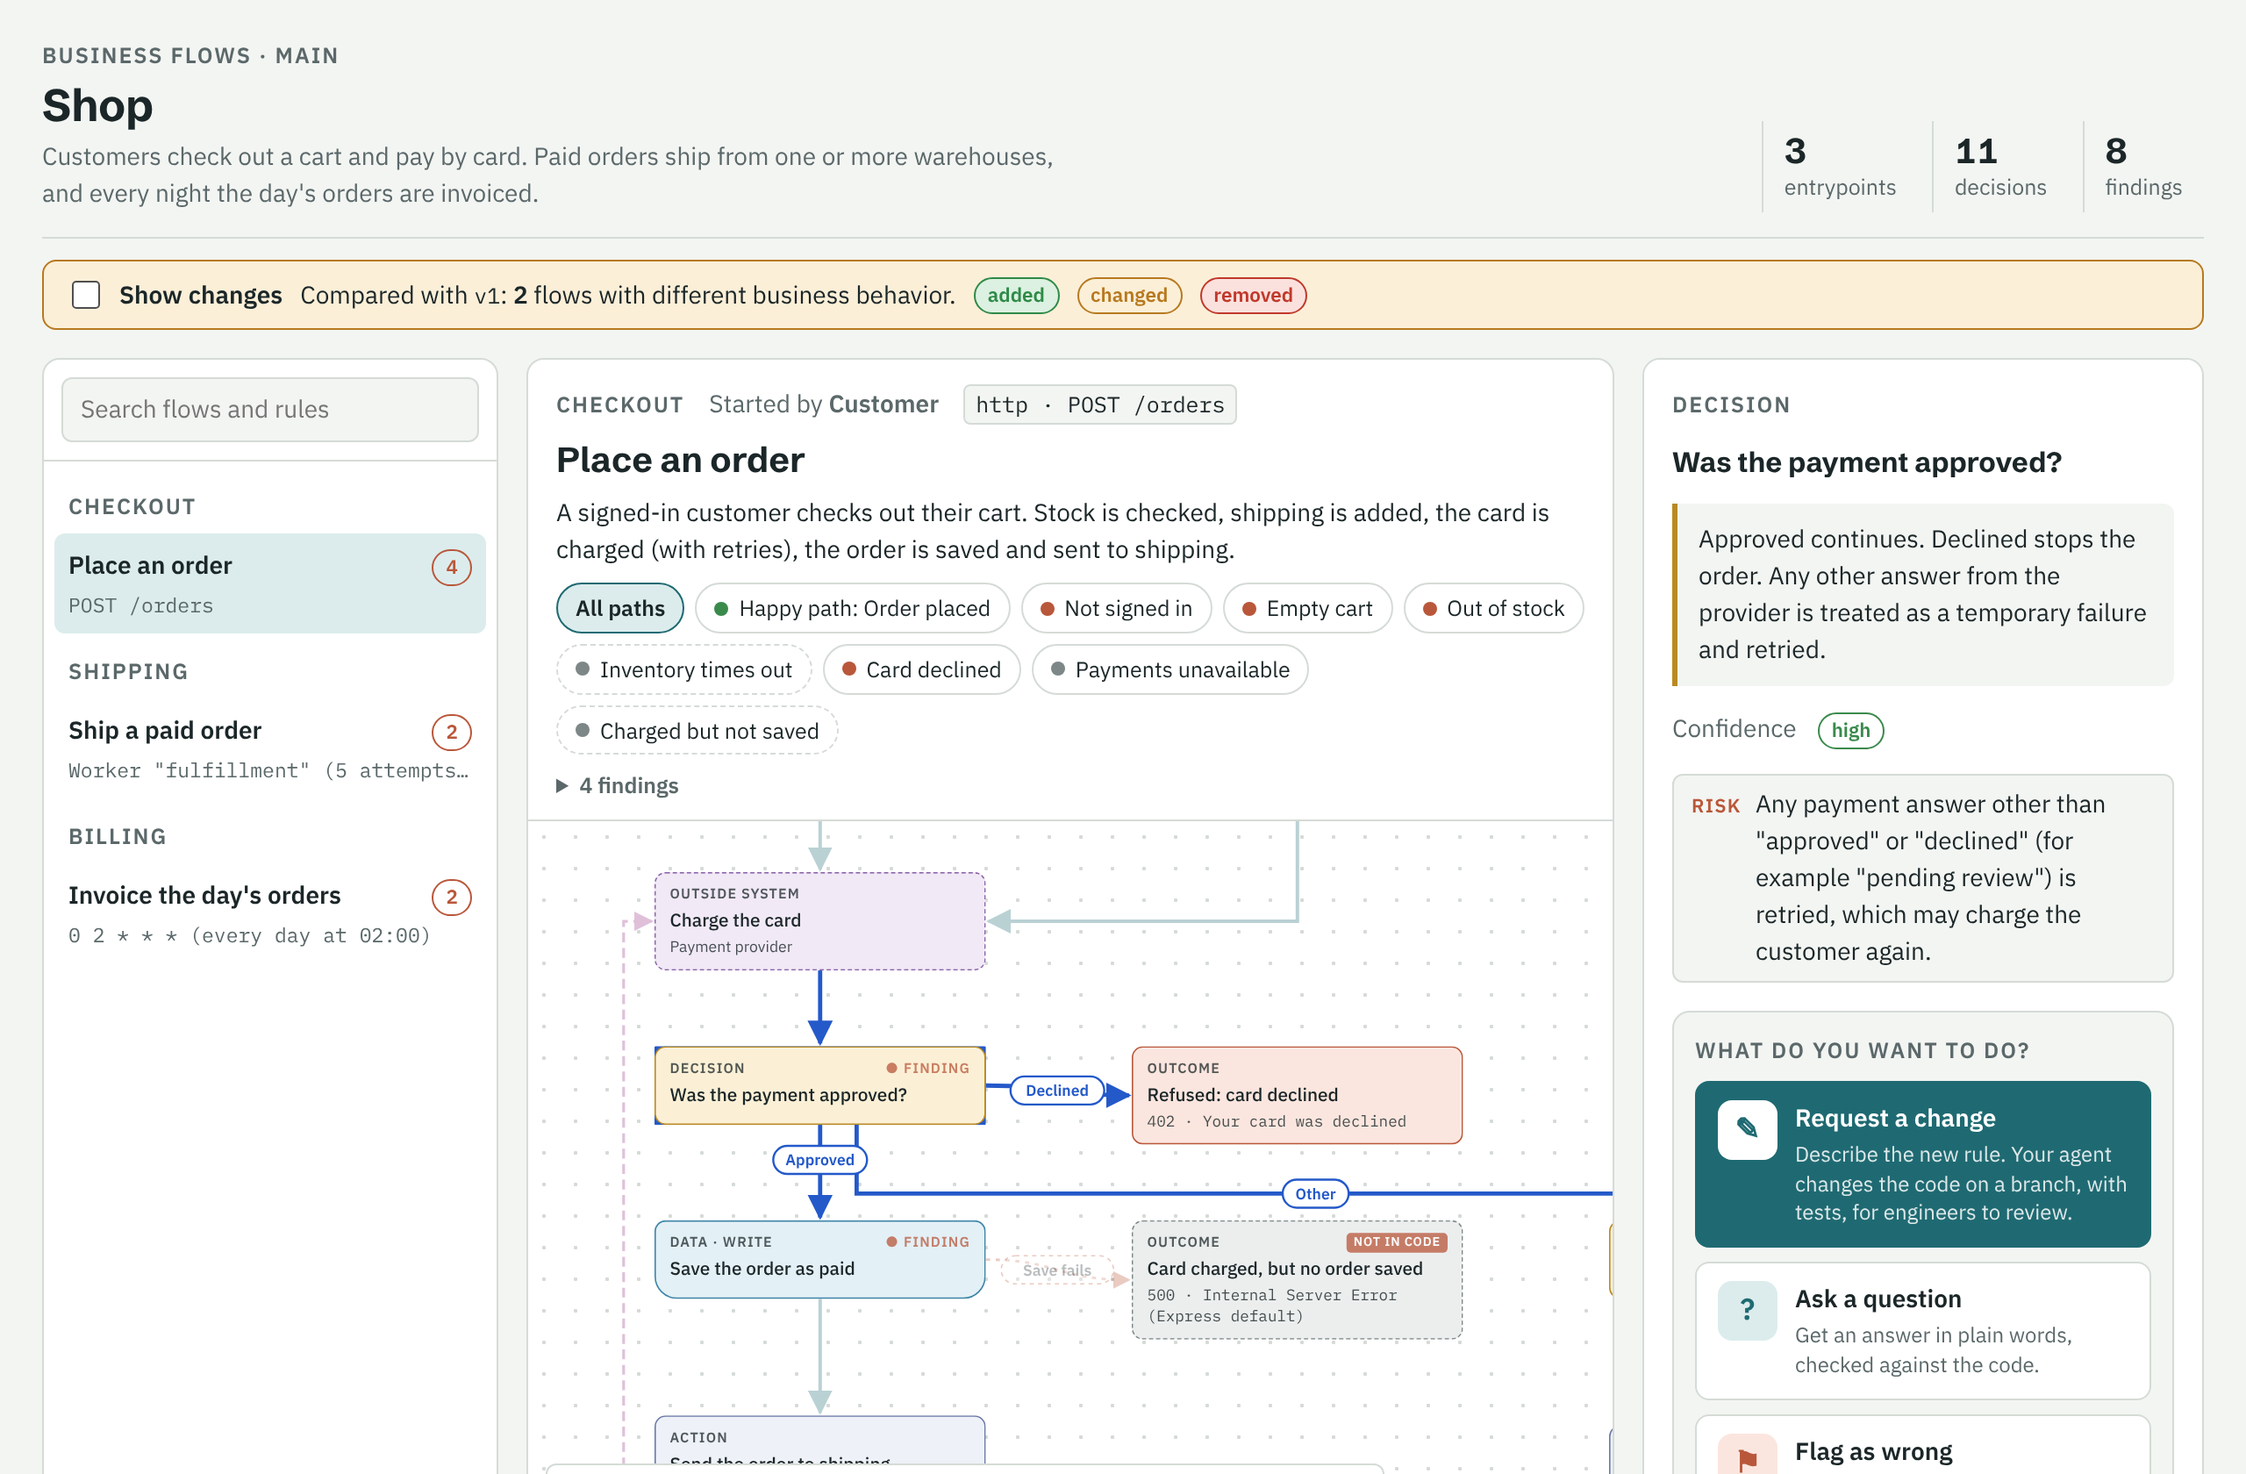
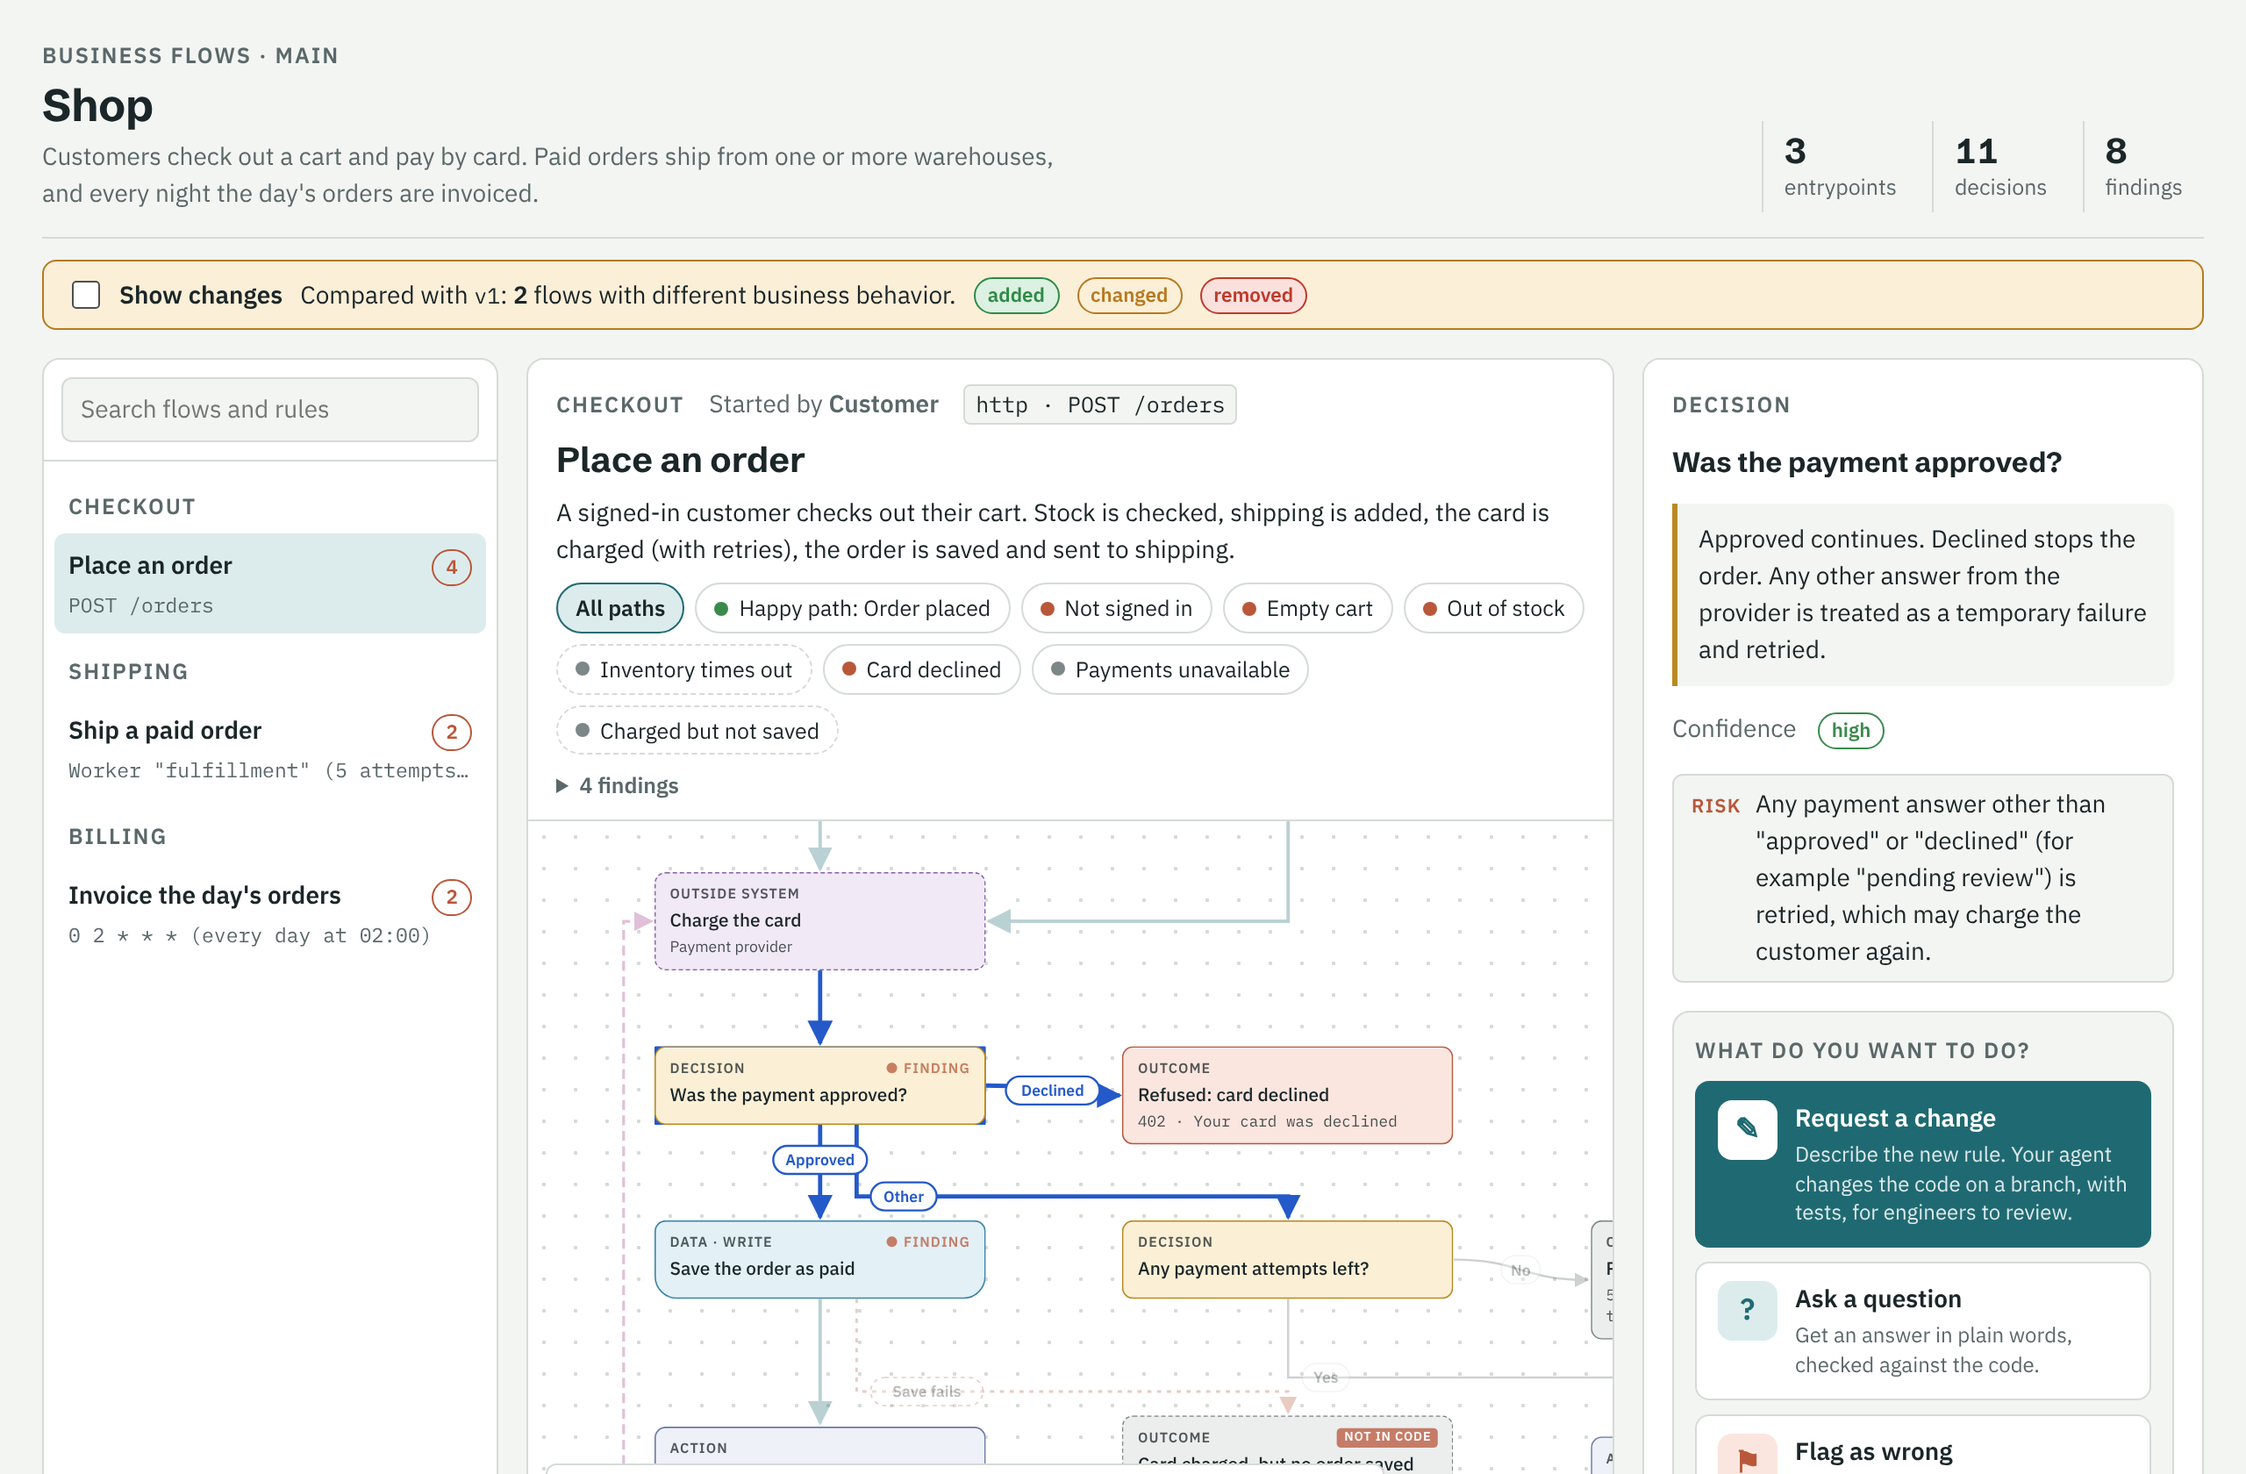
Viewer: never pile steps on top of each other
A decision's exits were always placed in the column to its right, even
when another step already sat there in the same row (two decisions side
by side, the left one with an exit), so the boxes overlapped. Exits now
stay beside their decision only when nothing else is to its right in
that row; otherwise they move down a row into a free column.

Labels of arrows that cross in a gap now sit where each arrow leaves
its step, and parallel tracks are spaced further apart, so crossing
branches ("No" from two decisions) stay readable.

Checked with an overlap scan over every flow of both examples and the
fork/merge, hub and pile-up reproductions: no overlaps.

Claude-Session: https://claude.ai/code/session_01PJiSFCH6Fftah1hFFyPCRG

diff --git a/examples/shop/index.html b/examples/shop/index.html
@@ -490,25 +490,33 @@ const PAYLOAD = {"head":{"version":1,"app":{"name":"Shop","summary":"Customers c
     const layers = [];
     for (const i of ids) (layers[layer.get(i)] ||= []).push(i);
     const col = new Map();
-    layers.forEach((L) => {
-      if (!L) return;
+    for (let k = 0; k < layers.length; k++) {
+      let L = layers[k];
+      if (!L) continue;
       const bary = (i) => { const p = parents.get(i).filter((x) => col.has(x)); return p.length ? p.reduce((s, x) => s + col.get(x), 0) / p.length : 0; };
       L.sort((a, b) => (side.has(a) - side.has(b)) || (happy.has(b) - happy.has(a)) || (bary(a) - bary(b)) || (ids.indexOf(a) - ids.indexOf(b)));
-      // Happy-path node in column 0. A decision's exits stack in the column right of it.
-      // The other steps take the next free columns.
+      // Happy-path step in column 0, the other steps in the next free columns.
       const used = new Set();
       const place = (i) => {
-        if (side.has(i)) { const c = col.get(parents.get(i)[0]) + 1; col.set(i, c); used.add(c); return; }
         let want = happy.has(i) ? 0 : Math.max(1, Math.round(bary(i)));
         while (used.has(want)) want++;
         used.add(want); col.set(i, want);
       };
-      const sideReady = (i) => side.has(i) && col.has(parents.get(i)[0]);
       L.filter((i) => !side.has(i) && happy.has(i)).forEach(place);
-      L.filter(sideReady).forEach(place);
       L.filter((i) => !side.has(i) && !happy.has(i)).forEach(place);
-      L.filter((i) => side.has(i) && !col.has(i)).forEach(place);
-    });
+      // A decision's exits stack in the column right of it, but only when nothing else sits to
+      // its right in this row. Otherwise they move down a row, where they get a free column.
+      const mainCols = L.filter((i) => !side.has(i)).map((i) => col.get(i));
+      const groups = new Map();
+      for (const i of L.filter((x) => side.has(x))) { const p = parents.get(i)[0]; (groups.get(p) || groups.set(p, []).get(p)).push(i); }
+      const moved = new Set();
+      for (const [p, list] of groups) {
+        const pc = col.get(p);
+        if (pc !== undefined && !mainCols.some((c) => c > pc)) list.forEach((i) => col.set(i, pc + 1));
+        else list.forEach((i) => { side.delete(i); layer.set(i, k + 1); (layers[k + 1] ||= []).push(i); moved.add(i); });
+      }
+      if (moved.size) layers[k] = L.filter((i) => !moved.has(i));
+    }
 
     const heights = new Map();
     for (const n of g.nodes) { measurer.innerHTML = nodeHtml(n, g.flow); heights.set(n.id, Math.max(n.type === 'start' ? 44 : 56, measurer.firstChild.offsetHeight)); }
@@ -696,17 +704,19 @@ const PAYLOAD = {"head":{"version":1,"app":{"name":"Shop","summary":"Customers c
         } else {
           const ex = exitX.get(e), en = entryX.get(e);
           // Each arrow of a fork runs on its own horizontal track inside the gap.
-          const gy1 = a.row + a.rowH + GAP_Y / 2 + (exitRank.get(e) || 0) * 8, gy2 = b.row - GAP_Y / 2;
+          const gy1 = a.row + a.rowH + GAP_Y / 2 + (exitRank.get(e) || 0) * 10, gy2 = b.row - GAP_Y / 2;
+          // Labels sit where the arrow leaves its step, so crossing branches keep their labels apart.
+          const near = (dirX) => ex + dirX * (lw / 2 + 10);
           const clearColumn = a.col === b.col && between(a, b).every((r) => free(r, a.col));
           const adjacent = Math.abs(a.row + a.rowH + GAP_Y - b.row) < 2;
           if (a.col === b.col && Math.abs(ex - en) < 1 && clearColumn) { d = `M${ex},${y1} V${y2}`; lx = ex; ly = y1 + GAP_Y / 2 - 2; }
-          else if (adjacent || clearColumn) { d = `M${ex},${y1} V${gy1} H${en} V${y2}`; lx = (ex + en) / 2; ly = gy1; }
+          else if (adjacent || clearColumn) { d = `M${ex},${y1} V${gy1} H${en} V${y2}`; lx = Math.abs(en - ex) > lw + 20 ? near(en > ex ? 1 : -1) : (ex + en) / 2; ly = gy1; }
           else {
             // Skipping rows: along the column gap, so the arrow never crosses a step.
             // In the first column the empty left side is the clearest channel.
             const side = dir === 0 ? (a.col === 0 ? -1 : 1) : dir;
             const chX = side > 0 ? a.x + a.w + L.gapX / 2 : a.col === 0 ? a.x - 16 : a.x - L.gapX / 2;
-            d = `M${ex},${y1} V${gy1} H${chX} V${gy2} H${en} V${y2}`; lx = (ex + chX) / 2; ly = gy1;
+            d = `M${ex},${y1} V${gy1} H${chX} V${gy2} H${en} V${y2}`; lx = Math.abs(chX - ex) > lw + 20 ? near(chX > ex ? 1 : -1) : (ex + chX) / 2; ly = gy1;
           }
         }
       }

diff --git a/examples/video-api/index.html b/examples/video-api/index.html
@@ -490,25 +490,33 @@ const PAYLOAD = {"head":{"version":1,"app":{"name":"Video API","summary":"Editor
     const layers = [];
     for (const i of ids) (layers[layer.get(i)] ||= []).push(i);
     const col = new Map();
-    layers.forEach((L) => {
-      if (!L) return;
+    for (let k = 0; k < layers.length; k++) {
+      let L = layers[k];
+      if (!L) continue;
       const bary = (i) => { const p = parents.get(i).filter((x) => col.has(x)); return p.length ? p.reduce((s, x) => s + col.get(x), 0) / p.length : 0; };
       L.sort((a, b) => (side.has(a) - side.has(b)) || (happy.has(b) - happy.has(a)) || (bary(a) - bary(b)) || (ids.indexOf(a) - ids.indexOf(b)));
-      // Happy-path node in column 0. A decision's exits stack in the column right of it.
-      // The other steps take the next free columns.
+      // Happy-path step in column 0, the other steps in the next free columns.
       const used = new Set();
       const place = (i) => {
-        if (side.has(i)) { const c = col.get(parents.get(i)[0]) + 1; col.set(i, c); used.add(c); return; }
         let want = happy.has(i) ? 0 : Math.max(1, Math.round(bary(i)));
         while (used.has(want)) want++;
         used.add(want); col.set(i, want);
       };
-      const sideReady = (i) => side.has(i) && col.has(parents.get(i)[0]);
       L.filter((i) => !side.has(i) && happy.has(i)).forEach(place);
-      L.filter(sideReady).forEach(place);
       L.filter((i) => !side.has(i) && !happy.has(i)).forEach(place);
-      L.filter((i) => side.has(i) && !col.has(i)).forEach(place);
-    });
+      // A decision's exits stack in the column right of it, but only when nothing else sits to
+      // its right in this row. Otherwise they move down a row, where they get a free column.
+      const mainCols = L.filter((i) => !side.has(i)).map((i) => col.get(i));
+      const groups = new Map();
+      for (const i of L.filter((x) => side.has(x))) { const p = parents.get(i)[0]; (groups.get(p) || groups.set(p, []).get(p)).push(i); }
+      const moved = new Set();
+      for (const [p, list] of groups) {
+        const pc = col.get(p);
+        if (pc !== undefined && !mainCols.some((c) => c > pc)) list.forEach((i) => col.set(i, pc + 1));
+        else list.forEach((i) => { side.delete(i); layer.set(i, k + 1); (layers[k + 1] ||= []).push(i); moved.add(i); });
+      }
+      if (moved.size) layers[k] = L.filter((i) => !moved.has(i));
+    }
 
     const heights = new Map();
     for (const n of g.nodes) { measurer.innerHTML = nodeHtml(n, g.flow); heights.set(n.id, Math.max(n.type === 'start' ? 44 : 56, measurer.firstChild.offsetHeight)); }
@@ -696,17 +704,19 @@ const PAYLOAD = {"head":{"version":1,"app":{"name":"Video API","summary":"Editor
         } else {
           const ex = exitX.get(e), en = entryX.get(e);
           // Each arrow of a fork runs on its own horizontal track inside the gap.
-          const gy1 = a.row + a.rowH + GAP_Y / 2 + (exitRank.get(e) || 0) * 8, gy2 = b.row - GAP_Y / 2;
+          const gy1 = a.row + a.rowH + GAP_Y / 2 + (exitRank.get(e) || 0) * 10, gy2 = b.row - GAP_Y / 2;
+          // Labels sit where the arrow leaves its step, so crossing branches keep their labels apart.
+          const near = (dirX) => ex + dirX * (lw / 2 + 10);
           const clearColumn = a.col === b.col && between(a, b).every((r) => free(r, a.col));
           const adjacent = Math.abs(a.row + a.rowH + GAP_Y - b.row) < 2;
           if (a.col === b.col && Math.abs(ex - en) < 1 && clearColumn) { d = `M${ex},${y1} V${y2}`; lx = ex; ly = y1 + GAP_Y / 2 - 2; }
-          else if (adjacent || clearColumn) { d = `M${ex},${y1} V${gy1} H${en} V${y2}`; lx = (ex + en) / 2; ly = gy1; }
+          else if (adjacent || clearColumn) { d = `M${ex},${y1} V${gy1} H${en} V${y2}`; lx = Math.abs(en - ex) > lw + 20 ? near(en > ex ? 1 : -1) : (ex + en) / 2; ly = gy1; }
           else {
             // Skipping rows: along the column gap, so the arrow never crosses a step.
             // In the first column the empty left side is the clearest channel.
             const side = dir === 0 ? (a.col === 0 ? -1 : 1) : dir;
             const chX = side > 0 ? a.x + a.w + L.gapX / 2 : a.col === 0 ? a.x - 16 : a.x - L.gapX / 2;
-            d = `M${ex},${y1} V${gy1} H${chX} V${gy2} H${en} V${y2}`; lx = (ex + chX) / 2; ly = gy1;
+            d = `M${ex},${y1} V${gy1} H${chX} V${gy2} H${en} V${y2}`; lx = Math.abs(chX - ex) > lw + 20 ? near(chX > ex ? 1 : -1) : (ex + chX) / 2; ly = gy1;
           }
         }
       }

diff --git a/skills/im-a-pm/assets/viewer.html b/skills/im-a-pm/assets/viewer.html
@@ -483,25 +483,33 @@ const PAYLOAD = /*__IM_A_PM_DATA__*/null;
     const layers = [];
     for (const i of ids) (layers[layer.get(i)] ||= []).push(i);
     const col = new Map();
-    layers.forEach((L) => {
-      if (!L) return;
+    for (let k = 0; k < layers.length; k++) {
+      let L = layers[k];
+      if (!L) continue;
       const bary = (i) => { const p = parents.get(i).filter((x) => col.has(x)); return p.length ? p.reduce((s, x) => s + col.get(x), 0) / p.length : 0; };
       L.sort((a, b) => (side.has(a) - side.has(b)) || (happy.has(b) - happy.has(a)) || (bary(a) - bary(b)) || (ids.indexOf(a) - ids.indexOf(b)));
-      // Happy-path node in column 0. A decision's exits stack in the column right of it.
-      // The other steps take the next free columns.
+      // Happy-path step in column 0, the other steps in the next free columns.
       const used = new Set();
       const place = (i) => {
-        if (side.has(i)) { const c = col.get(parents.get(i)[0]) + 1; col.set(i, c); used.add(c); return; }
         let want = happy.has(i) ? 0 : Math.max(1, Math.round(bary(i)));
         while (used.has(want)) want++;
         used.add(want); col.set(i, want);
       };
-      const sideReady = (i) => side.has(i) && col.has(parents.get(i)[0]);
       L.filter((i) => !side.has(i) && happy.has(i)).forEach(place);
-      L.filter(sideReady).forEach(place);
       L.filter((i) => !side.has(i) && !happy.has(i)).forEach(place);
-      L.filter((i) => side.has(i) && !col.has(i)).forEach(place);
-    });
+      // A decision's exits stack in the column right of it, but only when nothing else sits to
+      // its right in this row. Otherwise they move down a row, where they get a free column.
+      const mainCols = L.filter((i) => !side.has(i)).map((i) => col.get(i));
+      const groups = new Map();
+      for (const i of L.filter((x) => side.has(x))) { const p = parents.get(i)[0]; (groups.get(p) || groups.set(p, []).get(p)).push(i); }
+      const moved = new Set();
+      for (const [p, list] of groups) {
+        const pc = col.get(p);
+        if (pc !== undefined && !mainCols.some((c) => c > pc)) list.forEach((i) => col.set(i, pc + 1));
+        else list.forEach((i) => { side.delete(i); layer.set(i, k + 1); (layers[k + 1] ||= []).push(i); moved.add(i); });
+      }
+      if (moved.size) layers[k] = L.filter((i) => !moved.has(i));
+    }
 
     const heights = new Map();
     for (const n of g.nodes) { measurer.innerHTML = nodeHtml(n, g.flow); heights.set(n.id, Math.max(n.type === 'start' ? 44 : 56, measurer.firstChild.offsetHeight)); }
@@ -689,17 +697,19 @@ const PAYLOAD = /*__IM_A_PM_DATA__*/null;
         } else {
           const ex = exitX.get(e), en = entryX.get(e);
           // Each arrow of a fork runs on its own horizontal track inside the gap.
-          const gy1 = a.row + a.rowH + GAP_Y / 2 + (exitRank.get(e) || 0) * 8, gy2 = b.row - GAP_Y / 2;
+          const gy1 = a.row + a.rowH + GAP_Y / 2 + (exitRank.get(e) || 0) * 10, gy2 = b.row - GAP_Y / 2;
+          // Labels sit where the arrow leaves its step, so crossing branches keep their labels apart.
+          const near = (dirX) => ex + dirX * (lw / 2 + 10);
           const clearColumn = a.col === b.col && between(a, b).every((r) => free(r, a.col));
           const adjacent = Math.abs(a.row + a.rowH + GAP_Y - b.row) < 2;
           if (a.col === b.col && Math.abs(ex - en) < 1 && clearColumn) { d = `M${ex},${y1} V${y2}`; lx = ex; ly = y1 + GAP_Y / 2 - 2; }
-          else if (adjacent || clearColumn) { d = `M${ex},${y1} V${gy1} H${en} V${y2}`; lx = (ex + en) / 2; ly = gy1; }
+          else if (adjacent || clearColumn) { d = `M${ex},${y1} V${gy1} H${en} V${y2}`; lx = Math.abs(en - ex) > lw + 20 ? near(en > ex ? 1 : -1) : (ex + en) / 2; ly = gy1; }
           else {
             // Skipping rows: along the column gap, so the arrow never crosses a step.
             // In the first column the empty left side is the clearest channel.
             const side = dir === 0 ? (a.col === 0 ? -1 : 1) : dir;
             const chX = side > 0 ? a.x + a.w + L.gapX / 2 : a.col === 0 ? a.x - 16 : a.x - L.gapX / 2;
-            d = `M${ex},${y1} V${gy1} H${chX} V${gy2} H${en} V${y2}`; lx = (ex + chX) / 2; ly = gy1;
+            d = `M${ex},${y1} V${gy1} H${chX} V${gy2} H${en} V${y2}`; lx = Math.abs(chX - ex) > lw + 20 ? near(chX > ex ? 1 : -1) : (ex + chX) / 2; ly = gy1;
           }
         }
       }
